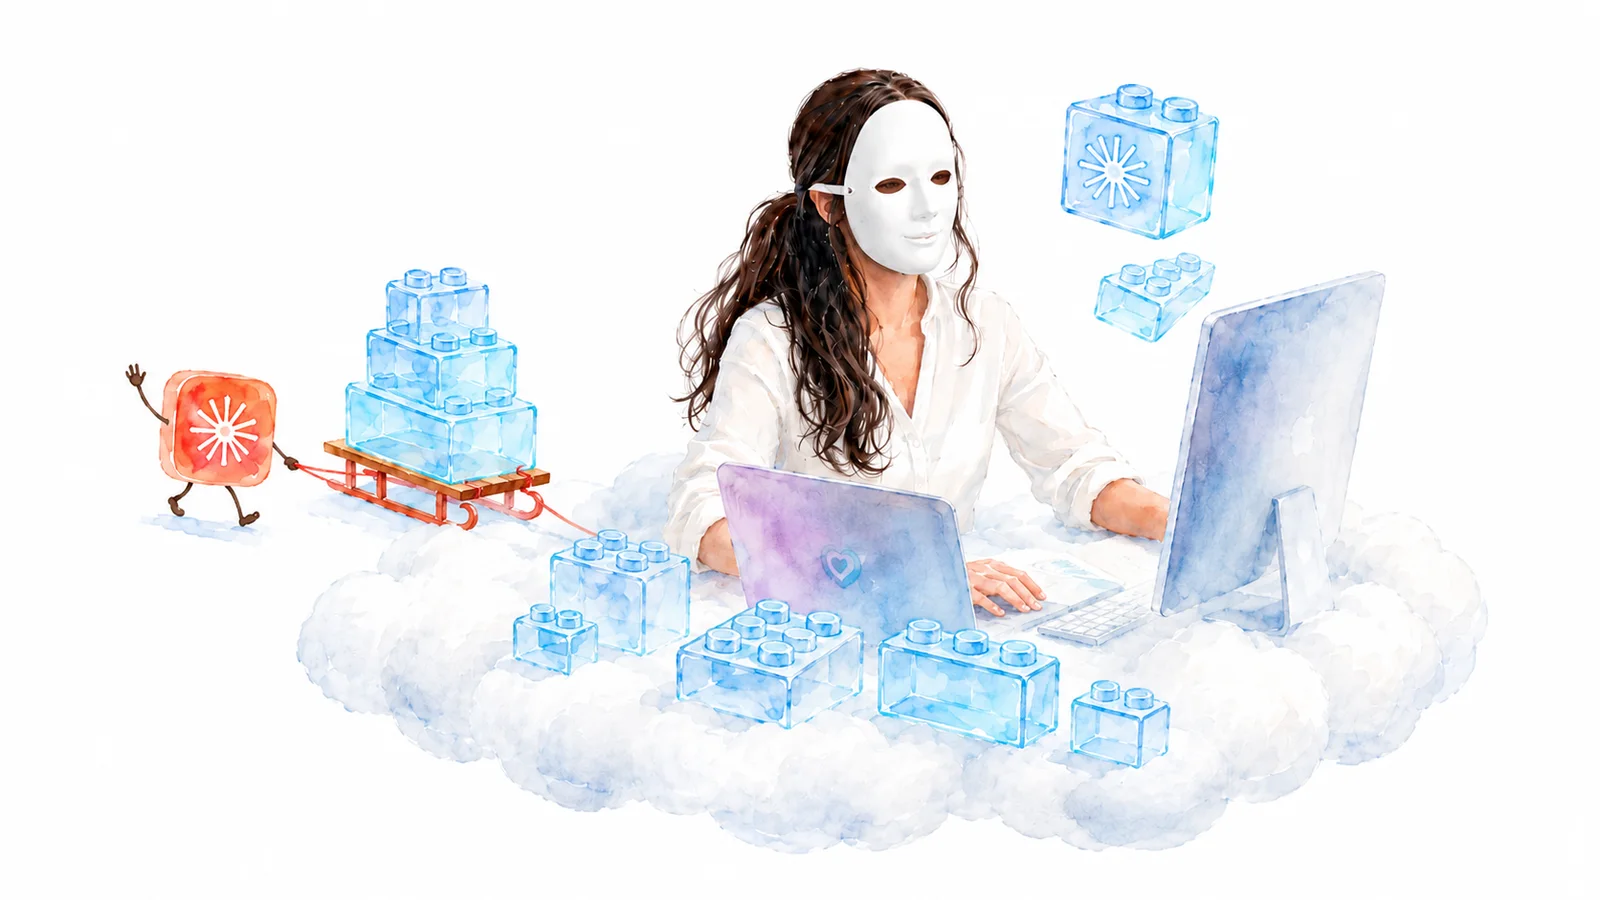
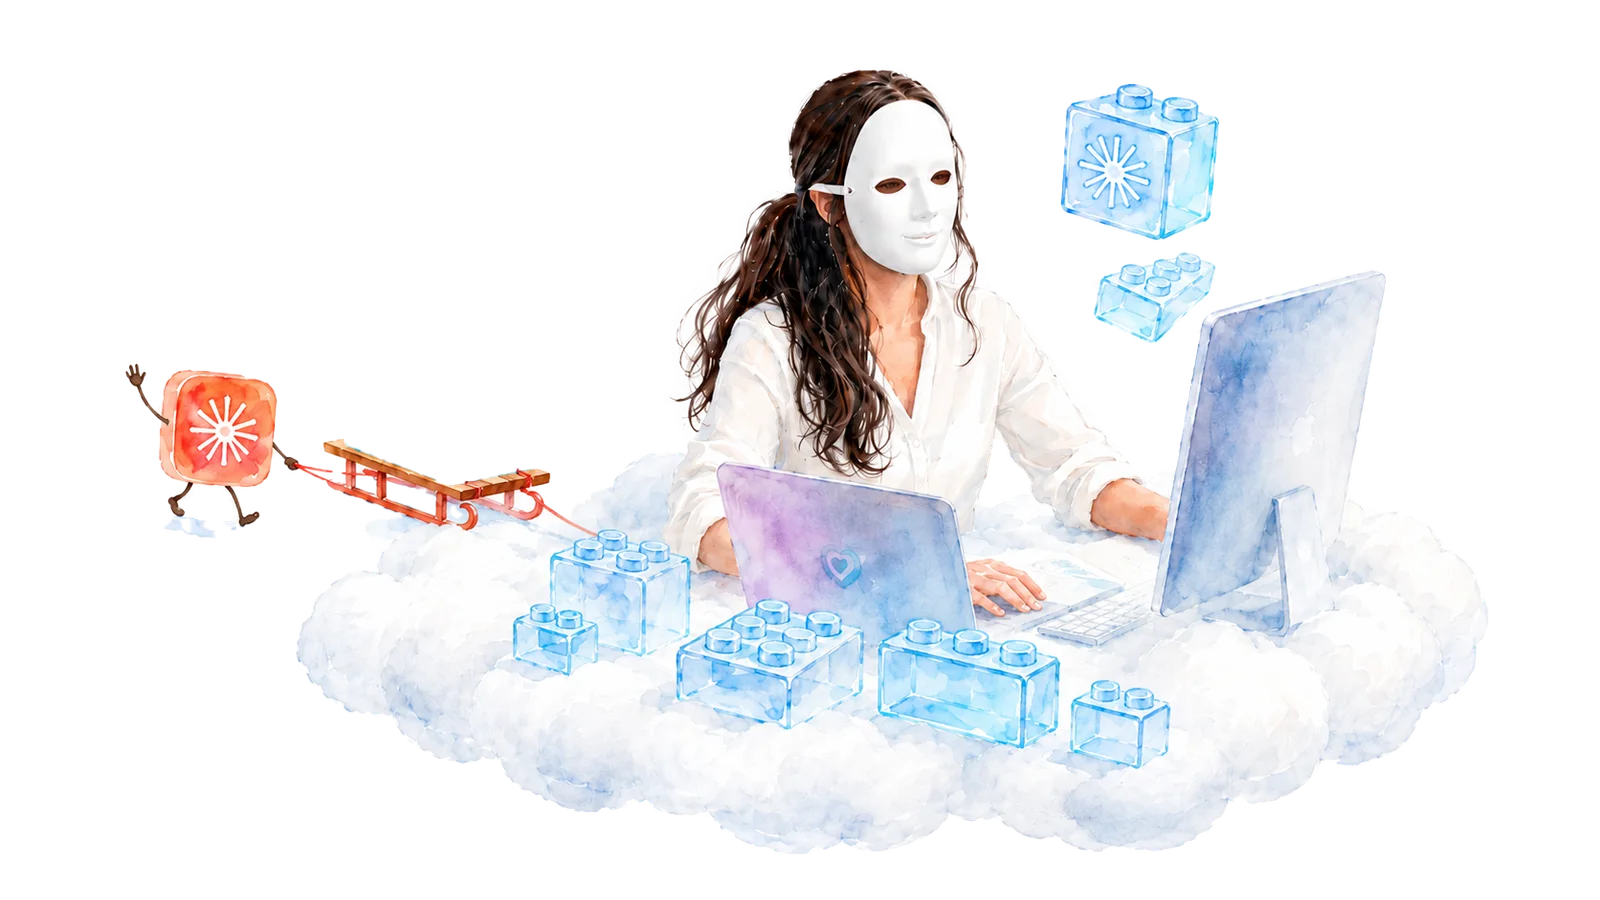
Apply copy spec; refresh hero artwork
Content fixes per copy spec (no design/layout/animation changes):
- Dry report register throughout: no 'we' anywhere; first person exactly
  once, in the CTA proof-of-work line
- Hero kicker restored to report ID + date + post-stealth
- Scan H2s: 'Scan one: Pi Security.' / 'Scan two: the fix.'
- Recon summary includes source count (12 sources)
- Chain step 2 and 4 tightened per spec (no 'you', no 'I', no 'Same thesis' tail)
- Removed '(We checked.)' aside from the finding
- Compatibility eyebrow renamed from 'Faster together'
- Name normalized to Marina (title, scan target)

Also recompress the newly uploaded hero illustration and drop the raw PNG.

diff --git a/index.html b/index.html
@@ -4,7 +4,7 @@
   <meta charset="UTF-8" />
   <meta name="viewport" content="width=device-width, initial-scale=1.0, viewport-fit=cover" />
   <meta name="theme-color" content="#FBFDFD" />
-  <title>PI-2026-0314 — Dual Vulnerability Assessment · Marinai</title>
+  <title>PI-2026-0314 — Dual Vulnerability Assessment · Marina</title>
   <meta name="description" content="A live security assessment, reframed as a portfolio. One critical finding: DesignFunctionNotFound. One available fix — a principal product designer who reads the backend spec and ships at machine speed." />
 
   <meta property="og:type" content="website" />
@@ -51,7 +51,7 @@
       </div>
 
       <div class="hero__inner">
-        <p class="meta hero__meta">ASSESSED FOR VELOCITY · PI-2026-0314 · 23H POST-STEALTH</p>
+        <p class="meta hero__meta">PI-2026-0314 · JUNE 11, 2026 · 23H POST-STEALTH</p>
         <h1 class="hero__title" aria-label="Dual Vulnerability Assessment">
           <span class="t-line t-line--1">Dual</span>
           <span class="t-line t-line--2 t-line--accent">Vulnerability</span>
@@ -177,12 +177,12 @@
       <div class="wrap">
         <header class="sec-head">
           <p class="eyebrow">§01 · Reconnaissance</p>
-          <h2 class="display">We scanned Pi.<br><span class="accent">Three passes deep.</span></h2>
+          <h2 class="display">Scan one: Pi Security.<br><span class="accent">Three passes deep.</span></h2>
         </header>
         <div class="sec-body">
           <p class="cmd">$ pi-recon --target pi.security --passes 3</p>
           <ul class="log" id="scanPi"></ul>
-          <p class="summary">3 passes · target locked · signal isolated</p>
+          <p class="summary">3 passes · 12 sources · target locked · signal isolated</p>
         </div>
       </div>
     </section>
@@ -208,7 +208,7 @@
         <header class="sec-head">
           <p class="eyebrow eyebrow--crit">Critical finding · 9.8</p>
           <h2 class="display">DesignFunctionNotFound<span class="t-dot">.</span></h2>
-          <p class="lede">An autonomous platform earns trust or loses it in the interface. That surface is currently unowned — exploitable by any competitor with taste. <span class="accent-script">(We checked.)</span></p>
+          <p class="lede">An autonomous platform earns trust or loses it in the interface. That surface is currently unowned — exploitable by any competitor with taste.</p>
         </header>
         <div class="cards cards--4" id="evidence"></div>
       </div>
@@ -219,10 +219,10 @@
       <div class="wrap">
         <header class="sec-head">
           <p class="eyebrow eyebrow--ok">§04 · The fix</p>
-          <h2 class="display">Then we scanned<br><span class="accent">the fix.</span></h2>
+          <h2 class="display">Scan two:<br><span class="accent">the fix.</span></h2>
         </header>
         <div class="sec-body">
-          <p class="cmd">$ pi-recon --target marinai --depth full</p>
+          <p class="cmd">$ pi-recon --target marina --depth full</p>
           <ul class="log" id="scanMe"></ul>
           <p class="summary summary--ok">6 sources · classification: design-engineer hybrid · rarity: HIGH</p>
         </div>
@@ -258,7 +258,7 @@
     <section class="block block--white" id="s06">
       <div class="wrap">
         <header class="sec-head">
-          <p class="eyebrow">Faster together</p>
+          <p class="eyebrow">Compatibility</p>
           <h2 class="display">Same thesis.<br><span class="accent">Different surface.</span></h2>
         </header>
         <div class="cards cards--2" id="match"></div>
@@ -280,7 +280,7 @@
 <span class="ad">+    pattern: design-system-as-code</span>
 <span class="ad">+    recurrence: prevented</span></code></pre>
 
-          <p class="cta-lead" data-write>This page is the proof of work: researched, designed, shipped as code — by the candidate.</p>
+          <p class="cta-lead" data-write>This page is the proof of work: I researched, designed and shipped it as code.</p>
           <div class="actions">
             <a class="btn btn--primary" data-magnetic href="mailto:[email redacted]?subject=Re:%20PI-2026-0314%20%E2%80%94%20DesignFunctionNotFound">APPLY FIX <span>&rsaquo;</span></a>
             <a class="btn btn--ghost" data-magnetic href="https://marinka.me" target="_blank" rel="noreferrer">MARINKA.ME</a>

diff --git a/assets/js/main.js b/assets/js/main.js
@@ -37,9 +37,9 @@
 
   const CHAIN = [
     { tag: "glasswing", text: "Anthropic’s Glasswing: 10,000+ critical vulnerabilities found in one month. 530 disclosed. The internet patched 75." },
-    { tag: "your lead investor", text: "Ward, 30 days before wiring you $35M: no one can hire their way out of that backlog. Verify, disclose, patch — three bottlenecks, not one." },
+    { tag: "your lead investor", text: "Ward, 30 days before wiring $35M: verify, disclose, patch. Three bottlenecks, not one." },
     { tag: "deduction", text: "Offense now scales at machine speed. The only defense left is remediation velocity. Pi exists to collapse bottleneck #3." },
-    { tag: "convergence", text: "Pi runs on Claude-Mythos. I build with the same models daily — design governance encoded as agent context. Same stack. Different surface. Same thesis." },
+    { tag: "convergence", text: "Pi runs on Claude-Mythos. The candidate builds with the same models daily — design governance as agent context. Same stack. Different surface." },
   ];
 
   const EVIDENCE = [